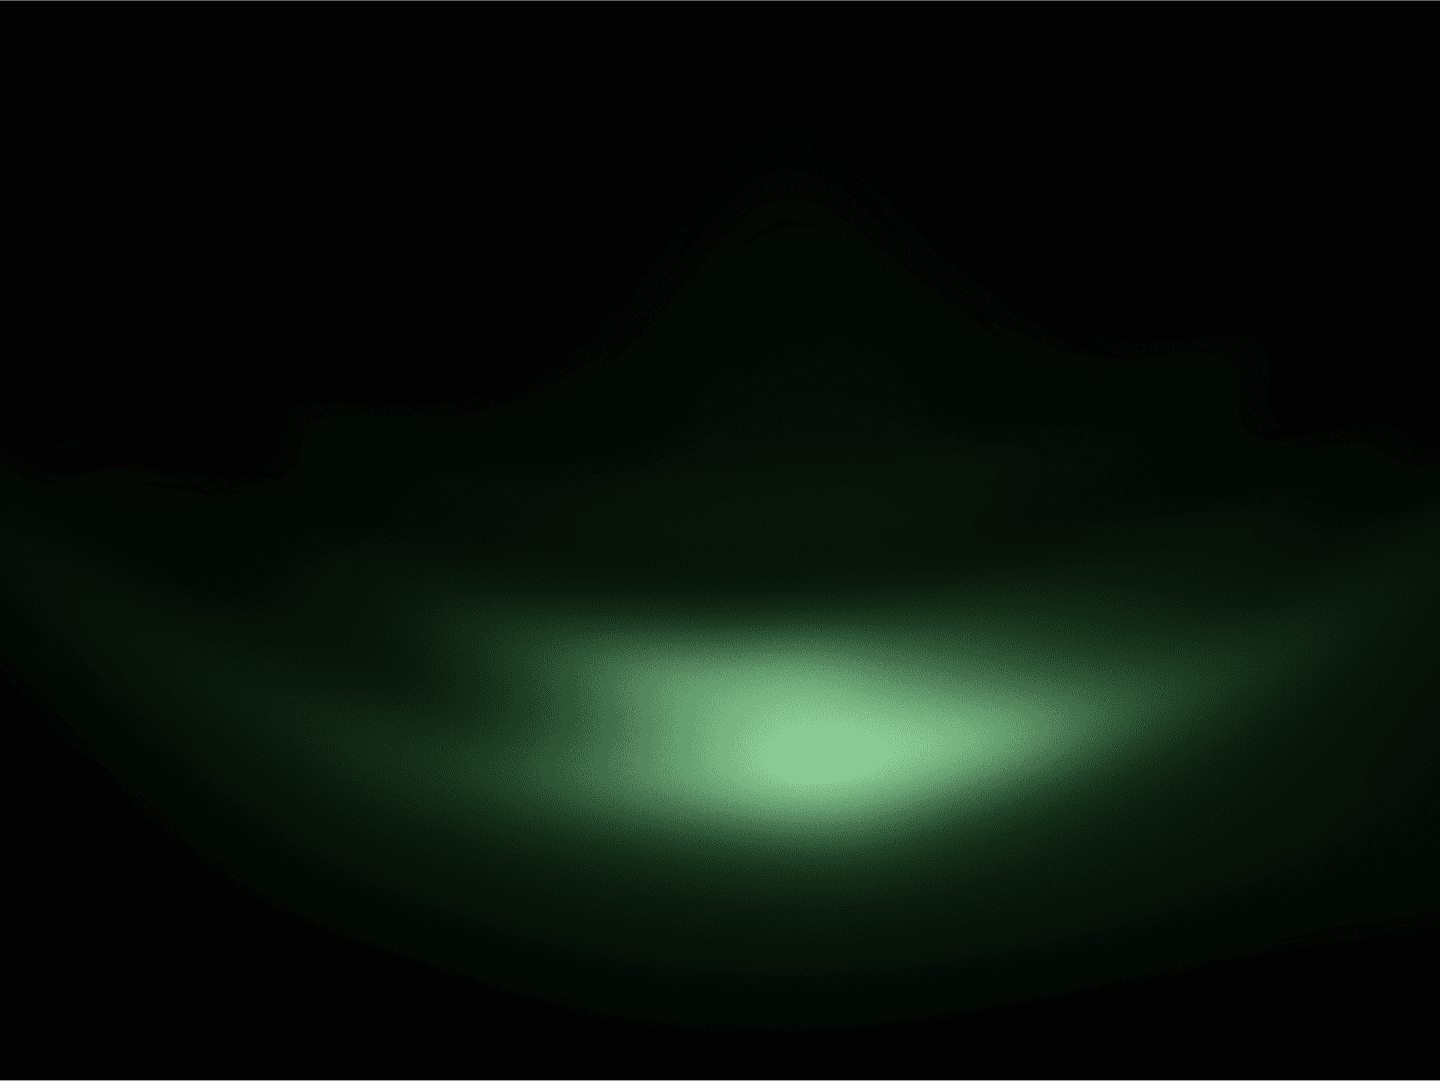
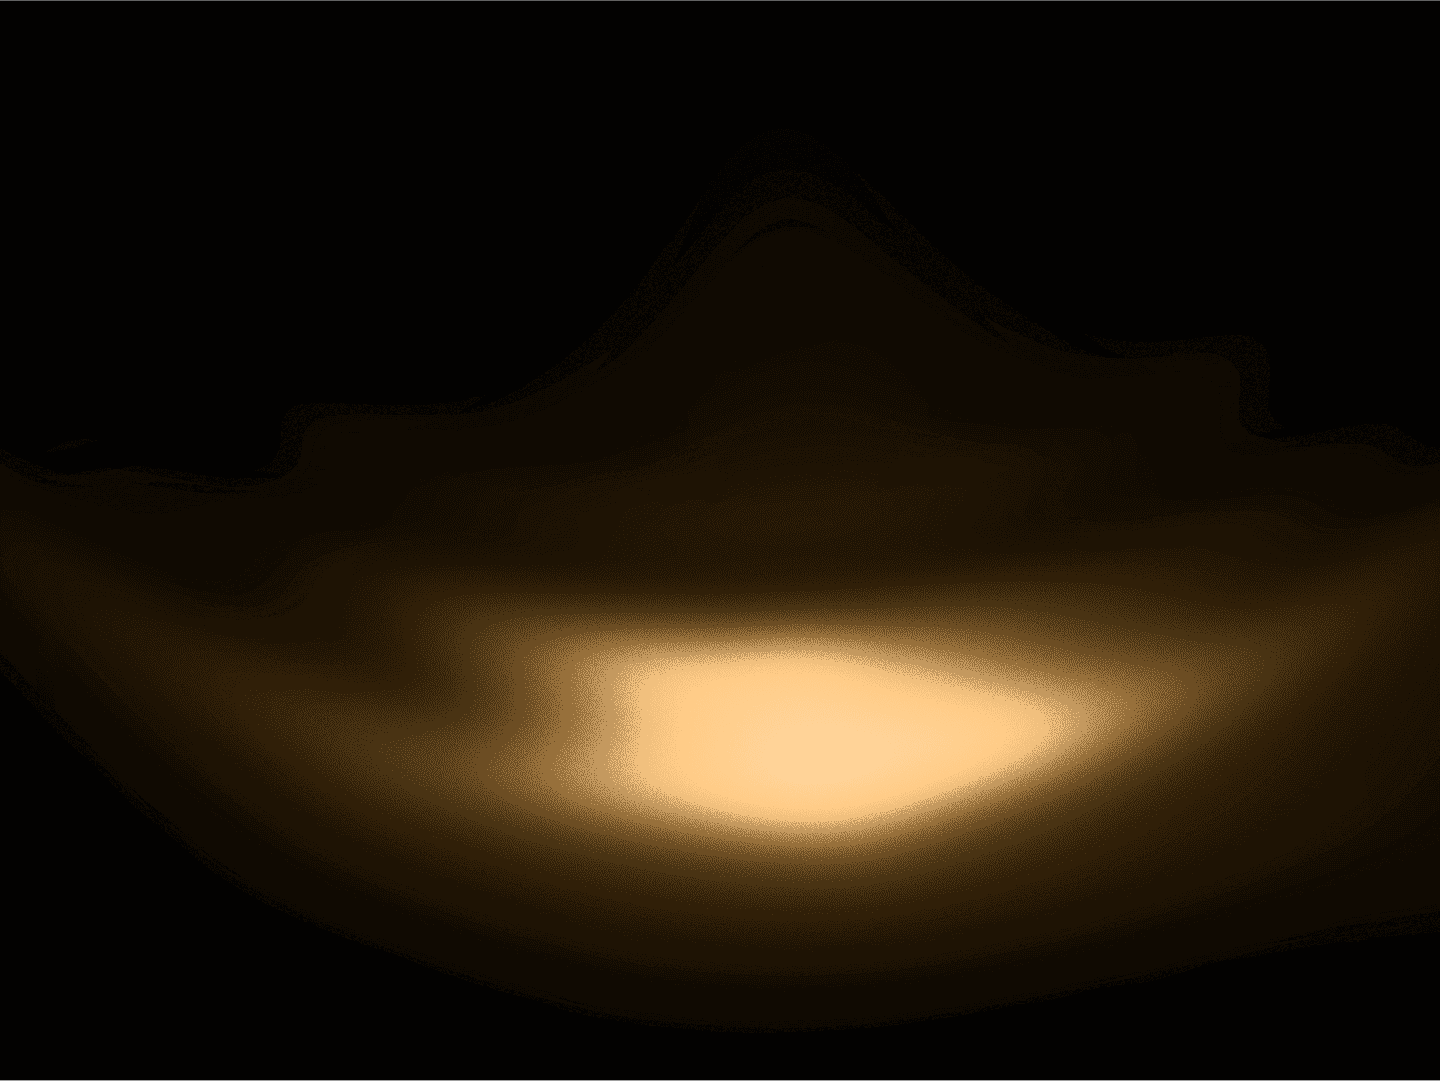
fix: reemplazar resplandores verdes del template por colores de marca y reducir espaciado doble entre secciones
Las imagenes decorativas bg-2/3/4/6.png traian un glow verde del
template original, fuera de la paleta de Moswen. Se recolorearon a
naranja (#f6a332, color primario) via ajuste de tono/saturacion,
preservando la forma del glow original. Se agrego una variante en
teal (#469db0, color secundario ya usado en la seccion de credito)
para el CTA de Consultoria de Negocios, dando variedad de color en
vez de naranja en todas las paginas.

Tambien se corrigio que dos secciones consecutivas con la clase
flat-spacing sumaban su padding (hasta 240px de vacio en el punto
de union) - ahora se anula el padding-top de la segunda seccion via
selector de hermano adyacente, dejando un solo espacio en cada
transicion. Afecta a todas las paginas del sitio.

Changed region(s): [[0.0938, 0.4274, 1.0, 0.8853]]

diff --git a/Moswen/consultoria-negocios.html b/Moswen/consultoria-negocios.html
@@ -278,7 +278,7 @@
         <!-- SECCIÓN 4: FINAL CTA -->
         <section class="section-final-cta flat-spacing position-relative" id="contactScroll">
              <div class="bg-img">
-                <img loading="lazy" width="1440" height="1081" src="assets/images/item/bg-4.png" alt="Image">
+                <img loading="lazy" width="1440" height="1081" src="assets/images/item/bg-4-teal.png" alt="Image">
             </div>
             <div class="container position-relative z-5">
                 <div class="row justify-content-center text-center">

diff --git a/Moswen/assets/css/styles.css b/Moswen/assets/css/styles.css
@@ -1064,6 +1064,12 @@ h6,
     padding-bottom: 60px;
   }
 }
+/* Two stacked sections each add their own top/bottom padding, doubling the
+   gap between them. Drop the second section's top padding so the boundary
+   gets a single flat-spacing gap instead of two stacked ones. */
+section.flat-spacing + section.flat-spacing {
+  padding-top: 0;
+}
 
 .flat-spacing-2 {
   padding-top: 60px;
